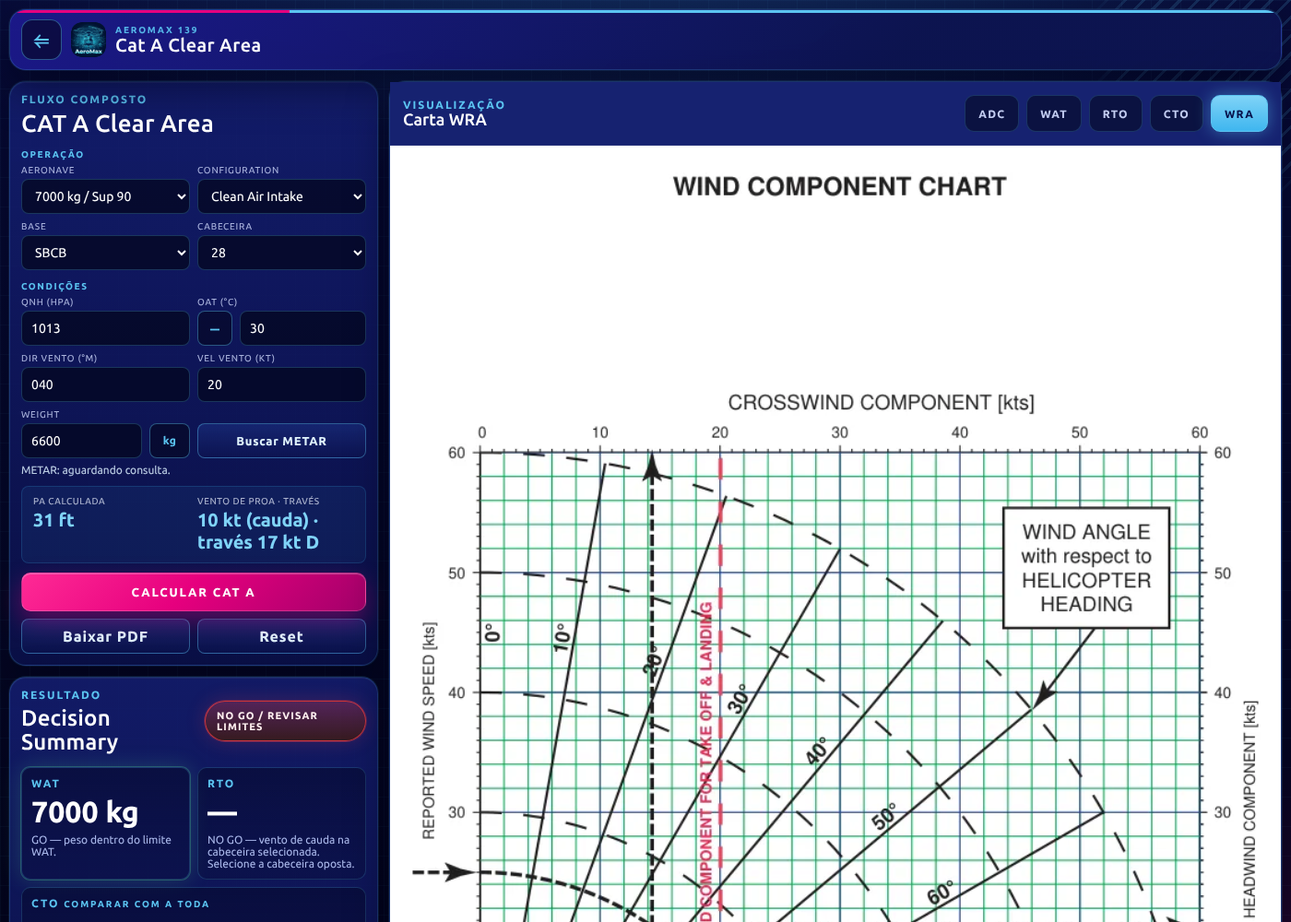
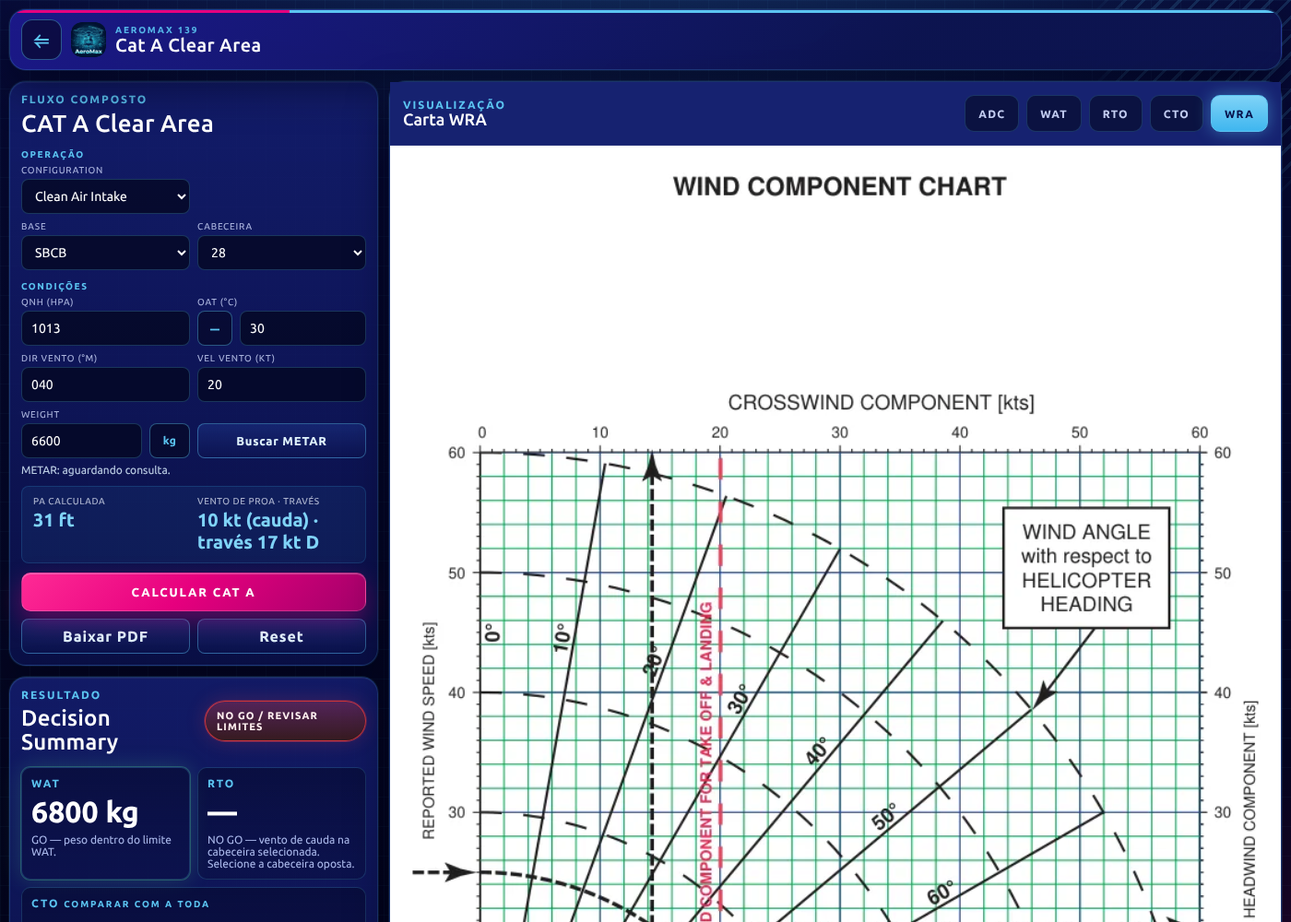
Libera aba WRA e Clear Area sem seleção de aeronave (conferidos)
Claude-Session: https://claude.ai/code/session_01WHHE1jrDq3VhKDq5ePKYXf

Changed region(s): [[0.1536, 0.186, 0.3071, 0.248], [0.0307, 0.186, 0.0921, 0.217], [0.0, 0.868, 0.0614, 0.899]]

diff --git a/sw.js b/sw.js
@@ -1,4 +1,4 @@
-const CACHE_NAME = 'aw139-root-3dde66dae0';
+const CACHE_NAME = 'aw139-root-f7b3d4140e';
 const PRECACHE = [
   "./shared/offline-status.js",
   "./dropdown/assets/dropdown-enhanced-7000.png",
@@ -496,7 +496,7 @@ const PRECACHE = [
   "./wat/test_overlay_case.png"
 ];
 // Gerado por tools/sw-hashes.py.
-const HASHES = {"./shared/offline-status.js":"e0dcf273cc","./dropdown/assets/dropdown-enhanced-7000.png":"453f2c2272","./dropdown/assets/dropdown-offshore-6400.png":"9917f039a5","./dropdown/assets/dropdown-offshore-6800.png":"47849e37a6","./adc/":"d8949fb248","./cata/":"c4fa26e9bc","./decolagem-offshore/":"a4b2f012a3","./dropdown/":"a4616c0320","./pouso-offshore/":"e884e1c3ba","./rto/":"bb0a239415","./wat/":"f4e5ad2e9b","./dropdown/index.html":"a4616c0320","./dropdown/app.js":"6a62ecc107","./dropdown/styles.css":"96d0905f64","./dropdown/ddv7-fullscreen-fix.js":"17641e73b5","./dropdown/ddv7-patch.js":"7dcde30659","./dropdown/final-ui.js":"7bfd4866d9","./assets/ubuntu.css":"bdff0152fa","./assets/fonts/ubuntu-400-latin-ext.woff2":"530aea4a33","./assets/fonts/ubuntu-400-latin.woff2":"4a8b9af22b","./assets/fonts/ubuntu-500-latin-ext.woff2":"882901bfb9","./assets/fonts/ubuntu-500-latin.woff2":"c6bd3f0bf0","./assets/fonts/ubuntu-500i-latin-ext.woff2":"62817d2060","./assets/fonts/ubuntu-500i-latin.woff2":"6f40fb42fb","./assets/fonts/ubuntu-700-latin-ext.woff2":"49dea29c68","./assets/fonts/ubuntu-700-latin.woff2":"9418887ae6","./":"a28ecfca81","./README.md":"3f8d17d0a6","./adc/app.js":"056d49ad6a","./adc/app.js.bak":"b6d408316d","./adc/base_pack_template_v3.json":"a64cff8968","./adc/base_pack_template_v4.json":"88092aa5d5","./adc/base_pack_template_v5.json":"ef6736957d","./adc/index.html":"d8949fb248","./adc/theme.css":"b488eb0ea0","./adc/sbcb_builtin_pack_v3.json":"daf053efe1","./adc/sbcb_builtin_pack_v4.json":"daf053efe1","./adc/sbcb_builtin_pack_v5.json":"daf053efe1","./adc/sbcb_chart_p1.png":"6247bdafc8","./adc/sbcb_chart_p2.png":"2a64afde63","./adc/sbfs_builtin_pack_v3.json":"6dfd7a78ec","./adc/sbfs_builtin_pack_v4.json":"6dfd7a78ec","./adc/sbfs_builtin_pack_v5.json":"6dfd7a78ec","./adc/sbfs_chart_p1.png":"11d16c614e","./adc/sbfs_chart_p2.png":"31980d1526","./adc/sbgl_builtin_pack_v3.json":"fa216d8e96","./adc/sbgl_builtin_pack_v4.json":"fa216d8e96","./adc/sbgl_builtin_pack_v5.json":"fa216d8e96","./adc/sbgl_chart_p1.png":"6278b0ab47","./adc/sbgl_chart_p2.png":"924152f28a","./adc/sbjr_builtin_pack_v3.json":"fa84f43a97","./adc/sbjr_builtin_pack_v4.json":"fa84f43a97","./adc/sbjr_builtin_pack_v5.json":"fa84f43a97","./adc/sbjr_chart_p1.png":"1d6d725659","./adc/sbjr_chart_p2.png":"2222bf471b","./adc/sbme_builtin_pack_v3.json":"737081b15b","./adc/sbme_builtin_pack_v4.json":"737081b15b","./adc/sbme_builtin_pack_v5.json":"737081b15b","./adc/sbme_chart_p1.png":"81bb110530","./adc/sbme_chart_p2.png":"a598ab6513","./adc/sbmi_builtin_pack_v3.json":"4e425738ec","./adc/sbmi_builtin_pack_v4.json":"4e425738ec","./adc/sbmi_builtin_pack_v5.json":"4e425738ec","./adc/sbmi_chart_p1.png":"33352141e0","./adc/sbmi_chart_p2.png":"33057d9afd","./adc/sbnf_builtin_pack_v3.json":"5960e76e05","./adc/sbnf_builtin_pack_v4.json":"ea4527169e","./adc/sbnf_builtin_pack_v5.json":"ea4527169e","./adc/sbnf_chart_p1.png":"80cc554335","./adc/sbnf_chart_p2.png":"2bd4d9cf6d","./adc/sbrj_builtin_pack_v3.json":"0b93adf0d4","./adc/sbrj_builtin_pack_v4.json":"0b93adf0d4","./adc/sbrj_builtin_pack_v5.json":"0b93adf0d4","./adc/sbrj_chart_p1.png":"a4e7c7b3e3","./adc/sbrj_chart_p2.png":"6a9f372fe4","./adc/sbvt_builtin_pack_v3.json":"479e1d3842","./adc/sbvt_builtin_pack_v4.json":"479e1d3842","./adc/sbvt_builtin_pack_v5.json":"479e1d3842","./adc/sbvt_chart_p1.png":"2950b9c273","./adc/sbvt_chart_p2.png":"5672869544","./assets/icon-180.png":"a08fe77aab","./assets/icon-192.png":"7e0a669ec6","./assets/icon-32.png":"7fecc67745","./assets/icon-512.png":"b3b8909213","./assets/icon-maskable-192.png":"c5974b3ba9","./assets/icon-maskable-512.png":"eca61e4329","./assets/icon-source.png":"b3b8909213","./assets/icon.svg":"ceeaf9c37c","./assets/icons.svg":"f1eba4ae07","./cata/app.js":"0954221f2e","./cata/cl-data.js":"60f1cd835d","./cata/cl-engine.js":"79d4e6cd8d","./cata/charts/4J-2_1.webp":"91e9d6b2ef","./cata/charts/4J-2_2.webp":"af0050beea","./cata/charts/4J-1.webp":"81ffbc09b2","./cata/charts/4-60.webp":"8e639b22f6","./cata/charts/4-61.webp":"0d9909b16c","./cata/charts/4-62.webp":"03f99789bb","./cata/charts/4-100.webp":"15f43f08f4","./cata/charts/4-101.webp":"5770e39bb1","./cata/charts/4-102.webp":"d991139c76","./cata/index.html":"c4fa26e9bc","./cata/styles.css":"e6b19627b3","./index.html":"a28ecfca81","./manifest.webmanifest":"66163ef78e","./offline.html":"a403229157","./pouso-offshore/index.html":"e884e1c3ba","./pouso-offshore/app.js":"543dbc192f","./pouso-offshore/styles.css":"8584bd0c0d","./pouso-offshore/obl-data.js":"9b29e5c876","./pouso-offshore/obl-engine.js":"35bbb6064a","./shared/clear/clw-data.js":"3dd22cee87","./shared/clear/clr-data.js":"fdb0c37a15","./shared/clear/clr-engine.js":"e238753c4c","./shared/clear/charts/4-1.webp":"4e4f64e227","./shared/clear/charts/4-2.webp":"6728ea2968","./shared/clear/charts/4-3.webp":"9e1c1db93f","./shared/clear/charts/4-54.webp":"08e570fc02","./shared/clear/charts/4-56.webp":"f005023ebc","./shared/clear/charts/4-58.webp":"3eb4682e05","./shared/clear/charts/4-68A.webp":"0c51c3ff90","./shared/clear/charts/4-9A.webp":"022452f809","./shared/clear/charts/S90-4-5.webp":"bd402a4d73","./shared/clear/charts/S90-4-6.webp":"1dfdfee5aa","./shared/clear/charts/S90-4-7.webp":"8652a9a081","./shared/clear/charts/S90-4-8.webp":"70ca7e31a0","./shared/clear/charts/S90-4-92.webp":"f40aadd282","./shared/clear/charts/S90-4-94.webp":"0fd78aa86b","./shared/clear/charts/S90-4-96.webp":"cec243d679","./shared/clear/charts/S90-4-98.webp":"cb80283e54","./shared/clear/charts/4-55.webp":"37382b9401","./shared/clear/charts/4-57.webp":"39ec7847a5","./shared/clear/charts/4-59.webp":"6dca0db4c5","./shared/clear/charts/4-68B.webp":"8cc91d42dc","./shared/clear/charts/4F-1.webp":"3fc3ee7279","./shared/clear/charts/4F-2.webp":"74ee8f04e6","./shared/clear/charts/4F-3.webp":"7c483fcf31","./shared/clear/charts/4F-3A.webp":"eaa2d9b4b1","./shared/clear/charts/4F-4.webp":"ac3ed3a0ac","./shared/clear/charts/4F-5.webp":"6d7c24d322","./shared/clear/charts/4F-6.webp":"70cf543aea","./shared/clear/charts/4F-6A.webp":"6d31a41233","./shared/clear/charts/4F-7.webp":"01b35d2f6a","./shared/clear/charts/4F-8.webp":"8d6f567b03","./shared/clear/charts/4F-9.webp":"f99b8d92f1","./shared/clear/charts/4F-9A.webp":"7edf66f2ce","./shared/clear/charts/S90-4-93.webp":"0a5802c1e3","./shared/clear/charts/S90-4-95.webp":"9918ace947","./shared/clear/charts/S90-4-97.webp":"d13250fbd4","./shared/clear/charts/S90-4-99.webp":"ddc991098c","./shared/offshore/ew-data.js":"c073ea4bfd","./shared/offshore/edd-data.js":"bce9665f1c","./shared/offshore/ew-engine.js":"d1d31fa346","./shared/offshore/charts/S97-4-1.webp":"f0a11eee80","./shared/offshore/charts/S97-4-3.webp":"3d8f3a7af9","./shared/offshore/charts/S97-4-5.webp":"e46465cb9b","./shared/offshore/charts/S97-4-7.webp":"ad4120d99d","./shared/offshore/charts/S97-4-10.webp":"5f7f5ec68b","./shared/wra.js":"b92d11c748","./shared/wind/wind-data.js":"7ec70cbb42","./shared/wind/charts/4K-4.webp":"074b02c475","./shared/wind/charts/S97-4-13.webp":"65c29c6ce8","./shared/wind/charts/S97-1-2.webp":"f733b83aee","./shared/offshore/ofw-data.js":"376df3628f","./shared/offshore/ofd-data.js":"b230c27368","./shared/offshore/ofs-engine.js":"3f081613b6","./shared/offshore/ofs-view.js":"9a312567a1","./shared/offshore/charts/4-7.webp":"ba6576acdc","./shared/offshore/charts/4-8.webp":"17051a1724","./shared/offshore/charts/4-9.webp":"5c7d525308","./shared/offshore/charts/4-9C.webp":"9abb07bb44","./shared/offshore/charts/4E-7.webp":"3da80170ed","./shared/offshore/charts/4I-1.webp":"3b96f0ca34","./shared/offshore/charts/4-74.webp":"1b7065b366","./pouso-offshore/charts/4I-2.webp":"5de288717a","./pouso-offshore/charts/4I-4.webp":"f85b1ac58e","./pouso-offshore/charts/4I-6.webp":"5880067122","./pouso-offshore/charts/4I-8.webp":"36e4ae2e03","./pouso-offshore/charts/4-75.webp":"63c65543cc","./pouso-offshore/charts/4-77.webp":"5d2ec48263","./pouso-offshore/charts/4-79.webp":"514ed66713","./pouso-offshore/charts/4-100.webp":"c387276699","./decolagem-offshore/index.html":"a4b2f012a3","./decolagem-offshore/app.js":"27040ed425","./decolagem-offshore/styles.css":"106ae9e216","./rto/README.md":"3bebf9425d","./rto/app.js":"6409423fc0","./rto/assets/icon-180.png":"a08fe77aab","./rto/assets/icon-192.png":"7e0a669ec6","./rto/assets/icon-32.png":"7fecc67745","./rto/assets/icon-512.png":"b3b8909213","./rto/assets/icon-maskable-192.png":"c5974b3ba9","./rto/assets/icon-maskable-512.png":"eca61e4329","./rto/assets/icon-source.png":"b3b8909213","./rto/assets/icon.svg":"ceeaf9c37c","./rto/data/figure_4_54_engine_data.json":"add62c26d8","./rto/data/figure_4_54_vector_geometry.json":"58fceee453","./rto/data/figure_4_54_vector_linework.json":"7ae4a188e9","./rto/data/figure_4_56_engine_data.json":"eadc8c1e6d","./rto/data/figure_4_58_engine_data.json":"dc11f5e367","./rto/data/figure_4_68a_engine_data.json":"0a9d3ffcda","./rto/data/figure_4_92_engine_data.json":"808e8064cc","./rto/data/figure_4_94_engine_data.json":"51c587d2d4","./rto/data/figure_4_94_reference.json":"b8b0edc125","./rto/data/figure_4_96_engine_data.json":"cb88e07b3c","./rto/data/figure_4_96_reference.json":"2b3782ffa9","./rto/data/figure_4_98_engine_data.json":"08b53de4d6","./rto/data/figure_4_98_reference.json":"b40a85e800","./rto/docs/figure_4_58_center_right_corrected_reference_v17.png":"e3333beb9c","./rto/docs/figure_4_58_left_semantic_corrected_v15.png":"85aa2c303c","./rto/docs/figure_4_94_combined_fresh_v46.png":"8a06926007","./rto/docs/figure_4_94_semantic_fresh_v46.png":"c7f1981a48","./rto/docs/figure_4_94_vector_only_fresh_v46.png":"eca150637c","./rto/docs/figure_4_96_combined_fresh_v54.png":"9b8b8e0725","./rto/docs/figure_4_96_semantic_audit_sheet_v56.png":"8beb7972b9","./rto/docs/figure_4_96_semantic_fresh_v54.png":"df93a910fa","./rto/docs/figure_4_96_vector_precise_v55.png":"4b6fdd7e0c","./rto/docs/figure_4_98_center_semantic_audit_v62.png":"b4d06efa89","./rto/docs/figure_4_98_left_semantic_audit_v62.png":"b528131f9d","./rto/docs/figure_4_98_right_semantic_audit_v62.png":"be6294f676","./rto/docs/figure_4_98_semantic_audit_sheet_v62.png":"b7f6be6ee9","./rto/docs/figure_4_98_vector_exact_v62.png":"5a54209df2","./rto/docs/page_s50_108a_figure_4_68a.png":"eb6be6e6d2","./rto/docs/page_s50_85_figure_4_54.png":"74e04fe83d","./rto/docs/page_s50_89_figure_4_56.png":"659b6ce11f","./rto/docs/page_s50_93_figure_4_58.png":"ac27c6a796","./rto/docs/page_s90_123_figure_4_92.png":"605888a376","./rto/docs/page_s90_127_figure_4_94.png":"00fb96dbf2","./rto/docs/page_s90_131_figure_4_96.png":"01d0750ab4","./rto/docs/page_s90_135_figure_4_98.png":"bff0d026d7","./rto/index.html":"bb0a239415","./rto/manifest.webmanifest":"b7c9e25d7a","./rto/styles.css":"838139d262","./dropdown/graphData.js":"5ec80fc198","./shared/home.js":"3a221a12ca","./shared/module-bridge.js":"218cc0b67e","./shared/module-layout.css":"9bdd7bcfaf","./shared/omni-theme.css":"2f2f02b44f","./shared/embedded-app.js":"8dbbe242b5","./shared/embedded-app.css":"b7354115e5","./shared/embedded-skin.css":"109015fdc0","./shared/landing-oei.js":"2e86fe6cc6","./cat-a/":"3117a89858","./cat-a/index.html":"3117a89858","./backup/":"3166e8a040","./backup/index.html":"3166e8a040","./backup/bu-data.js":"97769ab131","./backup/bu-engine.js":"639f6cd6c7","./backup/bu-ui.js":"c3e96d34ff","./backup/charts/4C-3.webp":"a169d568b9","./backup/charts/4C-4.webp":"d5db3f4099","./backup/charts/4C-5.webp":"25b7ec50a9","./backup/charts/4C-5A.webp":"6e5a490945","./backup/charts/4C-6.webp":"c9c57c74af","./confined/":"159a48d48f","./confined/index.html":"159a48d48f","./confined/ca-data.js":"513c1577e6","./confined/ca-alt-data.js":"85b843ffb9","./confined/ca-after.js":"0c82897651","./confined/charts/4D-10.webp":"14259d24dc","./confined/charts/4D-11.webp":"1ce6c027c7","./confined/charts/4D-12.webp":"01c3476bfd","./confined/charts/4D-13.webp":"491d7cfb69","./confined/charts/4D-14.webp":"f3a0eb9068","./confined/charts/4D-15.webp":"1ca4996463","./confined/charts/4D-16.webp":"e10fbe1b95","./confined/charts/4D-17.webp":"14ad59078d","./confined/charts/4D-18.webp":"84eb91b10c","./confined/charts/4D-19.webp":"64e85e3e06","./confined/charts/4D-20.webp":"fc02cbe14d","./confined/charts/4D-21.webp":"a26eb85784","./confined/charts/4D-22.webp":"ceca16ccd7","./confined/charts/4D-23.webp":"302804e4a2","./confined/charts/4D-24.webp":"1f74fe877c","./confined/charts/4D-25.webp":"e8b8c02001","./confined/charts/4D-26.webp":"5c6b52939c","./confined/charts/4D-27.webp":"309da5b7f1","./confined/charts/4D-28.webp":"c20f7d1ebb","./confined/charts/4D-29.webp":"fdb5d9065f","./confined/charts/4D-30.webp":"6258a01407","./confined/charts/4D-31.webp":"9d4b65bf76","./confined/charts/4D-32.webp":"e1da117372","./confined/charts/4D-33.webp":"ce90a5e7eb","./confined/ca-engine.js":"5de4527045","./confined/charts/4D-4.webp":"c4c3228276","./confined/charts/4D-5.webp":"6c9e15fa66","./confined/charts/4D-6.webp":"7b8cdc6a6a","./confined/charts/4D-6A.webp":"88fe0088de","./confined/charts/4D-9.webp":"91aebd8472","./vertical/":"d471b6b641","./vertical/index.html":"d471b6b641","./vertical/vt-data.js":"9b24b69a9f","./vertical/vt-engine.js":"14a21a9ac1","./vertical/vt-ui.js":"996ac17e52","./vertical/charts/4A-3.webp":"65c41496fc","./vertical/charts/4A-4.webp":"6377cd735a","./vertical/charts/4A-5.webp":"06123f26bd","./vertical/charts/4A-5A.webp":"9ec5b1dfe6","./vertical/charts/4A-6.webp":"e3d9415027","./vertical/vt-p1.js":"1bb0b313c7","./vertical/vt-p2.js":"d0fcdb0430","./pouso-confined/":"1055da1e4a","./pouso-heliport/":"0e596d5f11","./pouso-heliport/index.html":"0e596d5f11","./pouso-heliport/hb-data.js":"6eaefee0bf","./pouso-heliport/hb-engine.js":"071ccaaa0f","./pouso-heliport/hb-ui.js":"f2dd8863c2","./pouso-heliport/charts/4G-2.webp":"5a8f1f9efc","./pouso-confined/index.html":"1055da1e4a","./pouso-confined/cl-data.js":"9d04f2fcbd","./pouso-confined/pc-engine.js":"0178a3d411","./pouso-confined/pc-ui.js":"384648b8ed","./pouso-confined/charts/4H-4.webp":"84e34deae7","./vertical/charts/4K-5.webp":"c800090af3","./vertical/charts/4K-6.webp":"feb0d2ce0b","./vertical/charts/4K-7.webp":"53925da32c","./vertical/charts/4K-8.webp":"6a61131144","./vertical/charts/4K-9.webp":"b8fd49aa9b","./vertical/charts/4K-10.webp":"336e6bc787","./vertical/charts/4K-11.webp":"395ba20c34","./vertical/charts/4K-12.webp":"685a96c2cc","./vertical/charts/4K-13.webp":"4cb337975d","./vertical/charts/4K-14.webp":"a2b0b9f59e","./vertical/charts/4K-15.webp":"f4e80838b8","./vertical/charts/4K-16.webp":"3db84164d9","./vertical/charts/4K-17.webp":"55811049fe","./vertical/charts/4K-18.webp":"29da24b680","./vertical/charts/4K-19.webp":"21c15545e9","./vertical/charts/4K-20.webp":"c9728e025f","./vertical/charts/4K-21.webp":"f1e3b6b182","./vertical/charts/4K-22.webp":"492a570bbc","./vertical/charts/4K-23.webp":"c0aeb6b3da","./vertical/charts/4K-24.webp":"b5ee3e1307","./vertical/charts/4K-25.webp":"4fcfff391f","./vertical/charts/4K-26.webp":"c980d2d2e4","./vertical/charts/4K-27.webp":"e70cb3ddfc","./vertical/charts/4K-28.webp":"65c5a4ecf1","./vertical/charts/4A-8.webp":"2c93987671","./vertical/charts/4A-9.webp":"d23e87bb2a","./vertical/charts/4A-10.webp":"5b434fa23a","./vertical/charts/4A-11.webp":"7cde6f2522","./vertical/charts/4A-12.webp":"4e40b0a191","./vertical/charts/4A-13.webp":"f3ce2fd712","./vertical/charts/4A-14.webp":"34148b0716","./vertical/charts/4A-15.webp":"62c26a199c","./vertical/charts/4A-16.webp":"bcba86b269","./vertical/charts/4A-17.webp":"90af0238f4","./vertical/charts/4A-18.webp":"2fcb766978","./vertical/charts/4A-19.webp":"d7ad0a50dd","./vertical/charts/4A-20.webp":"a1ed5ee2a6","./vertical/charts/4A-21.webp":"ff7b328ce1","./vertical/charts/4A-22.webp":"3aa31c76ec","./vertical/charts/4A-23.webp":"2a0efe59db","./vertical/charts/4A-24.webp":"cd74ae5cb2","./vertical/charts/4A-25.webp":"21feeb455a","./vertical/charts/4A-26.webp":"7cd3fc4185","./vertical/charts/4A-27.webp":"0c0360a128","./vertical/charts/4A-28.webp":"a8fe86e4d5","./vertical/charts/4A-29.webp":"8adae6c45b","./vertical/charts/4A-30.webp":"3c474ea9e7","./vertical/charts/4A-31.webp":"35a4f85ae8","./shortfield/":"5baa948d12","./shortfield/index.html":"5baa948d12","./shortfield/sf.css":"04459c691f","./shortfield/sf-data.js":"fb066962fa","./shortfield/sf-engine.js":"69eee41183","./shortfield/sf-ui.js":"099d398784","./shortfield/charts/4B-1.webp":"a532c92445","./shortfield/charts/4B-2.webp":"c567c6b8ea","./shortfield/charts/4B-3.webp":"d7107f03ea","./shortfield/charts/4B-3A.webp":"ae083fb31d","./shortfield/charts/4B-4.webp":"ddfe2ed6d3","./shortfield/charts/4B-5.webp":"4cb2abead9","./shortfield/charts/4B-6.webp":"682c84713b","./shortfield/charts/4B-6A.webp":"3d9411c514","./shortfield/charts/4B-7.webp":"800bc474ce","./shared/tiles.css":"8c4bd57a5e","./catb/":"88fd185536","./catb/index.html":"88fd185536","./catb/cb-data.js":"184818f7a2","./catb/cb-engine.js":"41a38659d6","./catb/cb-ui.js":"64e4ade123","./catb/charts/4-17.webp":"f0b623d4f1","./catb/charts/4-18.webp":"9e26786a3c","./catb/charts/4-35.webp":"e542d67870","./catb/charts/4-36.webp":"15fd59fcb4","./catb/charts/4-42.webp":"7e1a317645","./catb/charts/4-43.webp":"71d6d8fab5","./power-check/":"d7ccb4cba1","./power-check/index.html":"d7ccb4cba1","./power-check/app-data.js":"fcbd847f38","./power-check/pwc-data.js":"42cf0aa2de","./power-check/pwc-engine.js":"9e27e482ed","./power-check/charts/NONE.webp":"3231d6a406","./power-check/charts/EAPS.webp":"c7a081c8de","./power-check/charts/IBF.webp":"f48455ee53","./ndl/":"ef0ac8ba6c","./ndl/index.html":"ef0ac8ba6c","./ndl/app-data.js":"717d2dc5fd","./roc/":"df1347dbab","./roc/index.html":"df1347dbab","./roc/app-data.js":"9c9b431fca","./consumo/":"18e311c77c","./consumo/index.html":"18e311c77c","./consumo/app-data.js":"2d5ef998f6","./teto-pairado/":"d44c620d2b","./teto-pairado/index.html":"d44c620d2b","./teto-pairado/app-data.js":"caa6028e0b","./teto-pairado/hl-data.js":"a07a77d29f","./teto-pairado/hl-engine.js":"db9c774340","./teto-pairado/hl-ui.js":"70a7069cd5","./teto-pairado/charts/4-43.webp":"ea64bf3937","./teto-pairado/charts/S50-4-37.webp":"8504726fb9","./limitacoes/":"19e32631bf","./limitacoes/index.html":"19e32631bf","./limitacoes/app-data.js":"eee931d32f","./shared/offshore-calc.js":"d1f822971c","./shared/pwa.css":"0b2b41c17f","./shared/pwa.js":"18d5fe2a9a","./styles.css":"d6df5af781","./wat/README.md":"06da1901f0","./wat/app.js":"1405ffb022","./wat/assets/icon-180.png":"a08fe77aab","./wat/assets/icon-192.png":"7e0a669ec6","./wat/assets/icon-32.png":"7fecc67745","./wat/assets/icon-512.png":"b3b8909213","./wat/assets/icon-maskable-192.png":"c5974b3ba9","./wat/assets/icon-maskable-512.png":"eca61e4329","./wat/assets/icon-source.png":"b3b8909213","./wat/assets/icon.svg":"ceeaf9c37c","./wat/assets/offshore_standard_chart_clip.png":"78214165ed","./wat/data/chart-schema.json":"e84976cdb5","./wat/data/clear-eapsoff-exact.json":"4443b57283","./wat/data/clear-eapson-exact.json":"102cbc91be","./wat/data/clear-standard-exact.json":"8146090402","./wat/data/confined-eapsoff-6400-exact.json":"6ed2281668","./wat/data/confined-eapsoff-exact.json":"75a2719e94","./wat/data/confined-eapson-6400-exact.json":"3e4342c78f","./wat/data/confined-eapson-exact.json":"4ca834c44c","./wat/data/confined-ibf-6400-exact.json":"489ba48cfa","./wat/data/confined-standard-6400-exact.json":"5d0899d9a7","./wat/data/confined-standard-exact.json":"ad0c801588","./wat/data/eaps-off-exact.json":"e08569afca","./wat/data/ibf-cleararea-exact.json":"2b506321d5","./wat/data/ibf-confined-exact.json":"4fd78b4006","./wat/data/ibf-installed-exact.json":"d87f7ef440","./wat/data/sup90-clear-eapsoff-exact.json":"1ad9d32f9b","./wat/data/sup90-clear-eapson-exact.json":"b5732d4a66","./wat/data/sup90-clear-ibf-exact.json":"19eb4567b4","./wat/data/sup90-clear-standard-exact.json":"39d3f1b925","./wat/data/sup90-cleararea-stageA.json":"70d5f4e5bf","./wat/data/sup90-cleararea-stageB.json":"0af48578e9","./wat/docs/Confined 6400 charts.pdf":"64e0911dda","./wat/docs/WAC charts 6800.pdf":"863c46943c","./wat/docs/WAT enhanced.pdf":"3365c19d09","./wat/docs/page-01.png":"98dcb1e36e","./wat/docs/page-02.png":"cf2b60e02b","./wat/docs/page-03.png":"779a3cbb79","./wat/docs/page-04.png":"9c69ec6824","./wat/docs/page-05.png":"338269411c","./wat/docs/page-06.png":"b7c46ebafd","./wat/docs/page-07.png":"93b1aedb74","./wat/docs/page-08.png":"dc09690af9","./wat/docs/page-09.png":"2d444748a5","./wat/docs/page-10.png":"d0da82e194","./wat/docs/page-11.png":"b2bd181248","./wat/docs/page-12.png":"83bd327295","./wat/docs/page-13.png":"37c301bd9f","./wat/docs/page-14.png":"3910cc7596","./wat/docs/page-15.png":"e73c0f87a3","./wat/docs/page-16.png":"115f8033ee","./wat/docs/page-17.png":"f350827d1f","./wat/docs/page-18.png":"1980ca6cad","./wat/docs/page-19.png":"14677f00da","./wat/docs/page-20.png":"98fe336fb1","./wat/docs/page-21.png":"e8ad896654","./wat/docs/page-22.png":"77b108f6ee","./wat/docs/page-23.png":"96ee258424","./wat/docs/page-24.png":"a2e1afa641","./wat/docs/page-25.png":"8ca695e708","./wat/docs/page-26.png":"16291f06d5","./wat/docs/page-27.png":"f6ca30c83b","./wat/docs/page-28.png":"834d710b44","./wat/docs/page-29.png":"8441208079","./wat/docs/page-30.png":"329425d392","./wat/docs/page-31.png":"3fbdf34873","./wat/docs/page-32.png":"0da936d818","./wat/docs/page-33.png":"69e8f596d2","./wat/docs/wat7000.pdf":"7b4d5b7a7f","./wat/index.html":"f4e5ad2e9b","./wat/manifest.webmanifest":"a4ffcf1781","./wat/styles.css":"67172edf8b","./wat/test_overlay_case.png":"c9176ae09a"};
+const HASHES = {"./shared/offline-status.js":"e0dcf273cc","./dropdown/assets/dropdown-enhanced-7000.png":"453f2c2272","./dropdown/assets/dropdown-offshore-6400.png":"9917f039a5","./dropdown/assets/dropdown-offshore-6800.png":"47849e37a6","./adc/":"d8949fb248","./cata/":"f106c95503","./decolagem-offshore/":"a4b2f012a3","./dropdown/":"a4616c0320","./pouso-offshore/":"e884e1c3ba","./rto/":"bb0a239415","./wat/":"f4e5ad2e9b","./dropdown/index.html":"a4616c0320","./dropdown/app.js":"6a62ecc107","./dropdown/styles.css":"96d0905f64","./dropdown/ddv7-fullscreen-fix.js":"17641e73b5","./dropdown/ddv7-patch.js":"7dcde30659","./dropdown/final-ui.js":"7bfd4866d9","./assets/ubuntu.css":"bdff0152fa","./assets/fonts/ubuntu-400-latin-ext.woff2":"530aea4a33","./assets/fonts/ubuntu-400-latin.woff2":"4a8b9af22b","./assets/fonts/ubuntu-500-latin-ext.woff2":"882901bfb9","./assets/fonts/ubuntu-500-latin.woff2":"c6bd3f0bf0","./assets/fonts/ubuntu-500i-latin-ext.woff2":"62817d2060","./assets/fonts/ubuntu-500i-latin.woff2":"6f40fb42fb","./assets/fonts/ubuntu-700-latin-ext.woff2":"49dea29c68","./assets/fonts/ubuntu-700-latin.woff2":"9418887ae6","./":"a28ecfca81","./README.md":"3f8d17d0a6","./adc/app.js":"056d49ad6a","./adc/app.js.bak":"b6d408316d","./adc/base_pack_template_v3.json":"a64cff8968","./adc/base_pack_template_v4.json":"88092aa5d5","./adc/base_pack_template_v5.json":"ef6736957d","./adc/index.html":"d8949fb248","./adc/theme.css":"b488eb0ea0","./adc/sbcb_builtin_pack_v3.json":"daf053efe1","./adc/sbcb_builtin_pack_v4.json":"daf053efe1","./adc/sbcb_builtin_pack_v5.json":"daf053efe1","./adc/sbcb_chart_p1.png":"6247bdafc8","./adc/sbcb_chart_p2.png":"2a64afde63","./adc/sbfs_builtin_pack_v3.json":"6dfd7a78ec","./adc/sbfs_builtin_pack_v4.json":"6dfd7a78ec","./adc/sbfs_builtin_pack_v5.json":"6dfd7a78ec","./adc/sbfs_chart_p1.png":"11d16c614e","./adc/sbfs_chart_p2.png":"31980d1526","./adc/sbgl_builtin_pack_v3.json":"fa216d8e96","./adc/sbgl_builtin_pack_v4.json":"fa216d8e96","./adc/sbgl_builtin_pack_v5.json":"fa216d8e96","./adc/sbgl_chart_p1.png":"6278b0ab47","./adc/sbgl_chart_p2.png":"924152f28a","./adc/sbjr_builtin_pack_v3.json":"fa84f43a97","./adc/sbjr_builtin_pack_v4.json":"fa84f43a97","./adc/sbjr_builtin_pack_v5.json":"fa84f43a97","./adc/sbjr_chart_p1.png":"1d6d725659","./adc/sbjr_chart_p2.png":"2222bf471b","./adc/sbme_builtin_pack_v3.json":"737081b15b","./adc/sbme_builtin_pack_v4.json":"737081b15b","./adc/sbme_builtin_pack_v5.json":"737081b15b","./adc/sbme_chart_p1.png":"81bb110530","./adc/sbme_chart_p2.png":"a598ab6513","./adc/sbmi_builtin_pack_v3.json":"4e425738ec","./adc/sbmi_builtin_pack_v4.json":"4e425738ec","./adc/sbmi_builtin_pack_v5.json":"4e425738ec","./adc/sbmi_chart_p1.png":"33352141e0","./adc/sbmi_chart_p2.png":"33057d9afd","./adc/sbnf_builtin_pack_v3.json":"5960e76e05","./adc/sbnf_builtin_pack_v4.json":"ea4527169e","./adc/sbnf_builtin_pack_v5.json":"ea4527169e","./adc/sbnf_chart_p1.png":"80cc554335","./adc/sbnf_chart_p2.png":"2bd4d9cf6d","./adc/sbrj_builtin_pack_v3.json":"0b93adf0d4","./adc/sbrj_builtin_pack_v4.json":"0b93adf0d4","./adc/sbrj_builtin_pack_v5.json":"0b93adf0d4","./adc/sbrj_chart_p1.png":"a4e7c7b3e3","./adc/sbrj_chart_p2.png":"6a9f372fe4","./adc/sbvt_builtin_pack_v3.json":"479e1d3842","./adc/sbvt_builtin_pack_v4.json":"479e1d3842","./adc/sbvt_builtin_pack_v5.json":"479e1d3842","./adc/sbvt_chart_p1.png":"2950b9c273","./adc/sbvt_chart_p2.png":"5672869544","./assets/icon-180.png":"a08fe77aab","./assets/icon-192.png":"7e0a669ec6","./assets/icon-32.png":"7fecc67745","./assets/icon-512.png":"b3b8909213","./assets/icon-maskable-192.png":"c5974b3ba9","./assets/icon-maskable-512.png":"eca61e4329","./assets/icon-source.png":"b3b8909213","./assets/icon.svg":"ceeaf9c37c","./assets/icons.svg":"f1eba4ae07","./cata/app.js":"899e1e76fc","./cata/cl-data.js":"60f1cd835d","./cata/cl-engine.js":"79d4e6cd8d","./cata/charts/4J-2_1.webp":"91e9d6b2ef","./cata/charts/4J-2_2.webp":"af0050beea","./cata/charts/4J-1.webp":"81ffbc09b2","./cata/charts/4-60.webp":"8e639b22f6","./cata/charts/4-61.webp":"0d9909b16c","./cata/charts/4-62.webp":"03f99789bb","./cata/charts/4-100.webp":"15f43f08f4","./cata/charts/4-101.webp":"5770e39bb1","./cata/charts/4-102.webp":"d991139c76","./cata/index.html":"f106c95503","./cata/styles.css":"e6b19627b3","./index.html":"a28ecfca81","./manifest.webmanifest":"66163ef78e","./offline.html":"a403229157","./pouso-offshore/index.html":"e884e1c3ba","./pouso-offshore/app.js":"543dbc192f","./pouso-offshore/styles.css":"8584bd0c0d","./pouso-offshore/obl-data.js":"9b29e5c876","./pouso-offshore/obl-engine.js":"35bbb6064a","./shared/clear/clw-data.js":"3dd22cee87","./shared/clear/clr-data.js":"fdb0c37a15","./shared/clear/clr-engine.js":"e238753c4c","./shared/clear/charts/4-1.webp":"4e4f64e227","./shared/clear/charts/4-2.webp":"6728ea2968","./shared/clear/charts/4-3.webp":"9e1c1db93f","./shared/clear/charts/4-54.webp":"08e570fc02","./shared/clear/charts/4-56.webp":"f005023ebc","./shared/clear/charts/4-58.webp":"3eb4682e05","./shared/clear/charts/4-68A.webp":"0c51c3ff90","./shared/clear/charts/4-9A.webp":"022452f809","./shared/clear/charts/S90-4-5.webp":"bd402a4d73","./shared/clear/charts/S90-4-6.webp":"1dfdfee5aa","./shared/clear/charts/S90-4-7.webp":"8652a9a081","./shared/clear/charts/S90-4-8.webp":"70ca7e31a0","./shared/clear/charts/S90-4-92.webp":"f40aadd282","./shared/clear/charts/S90-4-94.webp":"0fd78aa86b","./shared/clear/charts/S90-4-96.webp":"cec243d679","./shared/clear/charts/S90-4-98.webp":"cb80283e54","./shared/clear/charts/4-55.webp":"37382b9401","./shared/clear/charts/4-57.webp":"39ec7847a5","./shared/clear/charts/4-59.webp":"6dca0db4c5","./shared/clear/charts/4-68B.webp":"8cc91d42dc","./shared/clear/charts/4F-1.webp":"3fc3ee7279","./shared/clear/charts/4F-2.webp":"74ee8f04e6","./shared/clear/charts/4F-3.webp":"7c483fcf31","./shared/clear/charts/4F-3A.webp":"eaa2d9b4b1","./shared/clear/charts/4F-4.webp":"ac3ed3a0ac","./shared/clear/charts/4F-5.webp":"6d7c24d322","./shared/clear/charts/4F-6.webp":"70cf543aea","./shared/clear/charts/4F-6A.webp":"6d31a41233","./shared/clear/charts/4F-7.webp":"01b35d2f6a","./shared/clear/charts/4F-8.webp":"8d6f567b03","./shared/clear/charts/4F-9.webp":"f99b8d92f1","./shared/clear/charts/4F-9A.webp":"7edf66f2ce","./shared/clear/charts/S90-4-93.webp":"0a5802c1e3","./shared/clear/charts/S90-4-95.webp":"9918ace947","./shared/clear/charts/S90-4-97.webp":"d13250fbd4","./shared/clear/charts/S90-4-99.webp":"ddc991098c","./shared/offshore/ew-data.js":"c073ea4bfd","./shared/offshore/edd-data.js":"bce9665f1c","./shared/offshore/ew-engine.js":"d1d31fa346","./shared/offshore/charts/S97-4-1.webp":"f0a11eee80","./shared/offshore/charts/S97-4-3.webp":"3d8f3a7af9","./shared/offshore/charts/S97-4-5.webp":"e46465cb9b","./shared/offshore/charts/S97-4-7.webp":"ad4120d99d","./shared/offshore/charts/S97-4-10.webp":"5f7f5ec68b","./shared/wra.js":"f683feb25d","./shared/wind/wind-data.js":"7ec70cbb42","./shared/wind/charts/4K-4.webp":"074b02c475","./shared/wind/charts/S97-4-13.webp":"65c29c6ce8","./shared/wind/charts/S97-1-2.webp":"f733b83aee","./shared/offshore/ofw-data.js":"376df3628f","./shared/offshore/ofd-data.js":"b230c27368","./shared/offshore/ofs-engine.js":"3f081613b6","./shared/offshore/ofs-view.js":"9a312567a1","./shared/offshore/charts/4-7.webp":"ba6576acdc","./shared/offshore/charts/4-8.webp":"17051a1724","./shared/offshore/charts/4-9.webp":"5c7d525308","./shared/offshore/charts/4-9C.webp":"9abb07bb44","./shared/offshore/charts/4E-7.webp":"3da80170ed","./shared/offshore/charts/4I-1.webp":"3b96f0ca34","./shared/offshore/charts/4-74.webp":"1b7065b366","./pouso-offshore/charts/4I-2.webp":"5de288717a","./pouso-offshore/charts/4I-4.webp":"f85b1ac58e","./pouso-offshore/charts/4I-6.webp":"5880067122","./pouso-offshore/charts/4I-8.webp":"36e4ae2e03","./pouso-offshore/charts/4-75.webp":"63c65543cc","./pouso-offshore/charts/4-77.webp":"5d2ec48263","./pouso-offshore/charts/4-79.webp":"514ed66713","./pouso-offshore/charts/4-100.webp":"c387276699","./decolagem-offshore/index.html":"a4b2f012a3","./decolagem-offshore/app.js":"27040ed425","./decolagem-offshore/styles.css":"106ae9e216","./rto/README.md":"3bebf9425d","./rto/app.js":"6409423fc0","./rto/assets/icon-180.png":"a08fe77aab","./rto/assets/icon-192.png":"7e0a669ec6","./rto/assets/icon-32.png":"7fecc67745","./rto/assets/icon-512.png":"b3b8909213","./rto/assets/icon-maskable-192.png":"c5974b3ba9","./rto/assets/icon-maskable-512.png":"eca61e4329","./rto/assets/icon-source.png":"b3b8909213","./rto/assets/icon.svg":"ceeaf9c37c","./rto/data/figure_4_54_engine_data.json":"add62c26d8","./rto/data/figure_4_54_vector_geometry.json":"58fceee453","./rto/data/figure_4_54_vector_linework.json":"7ae4a188e9","./rto/data/figure_4_56_engine_data.json":"eadc8c1e6d","./rto/data/figure_4_58_engine_data.json":"dc11f5e367","./rto/data/figure_4_68a_engine_data.json":"0a9d3ffcda","./rto/data/figure_4_92_engine_data.json":"808e8064cc","./rto/data/figure_4_94_engine_data.json":"51c587d2d4","./rto/data/figure_4_94_reference.json":"b8b0edc125","./rto/data/figure_4_96_engine_data.json":"cb88e07b3c","./rto/data/figure_4_96_reference.json":"2b3782ffa9","./rto/data/figure_4_98_engine_data.json":"08b53de4d6","./rto/data/figure_4_98_reference.json":"b40a85e800","./rto/docs/figure_4_58_center_right_corrected_reference_v17.png":"e3333beb9c","./rto/docs/figure_4_58_left_semantic_corrected_v15.png":"85aa2c303c","./rto/docs/figure_4_94_combined_fresh_v46.png":"8a06926007","./rto/docs/figure_4_94_semantic_fresh_v46.png":"c7f1981a48","./rto/docs/figure_4_94_vector_only_fresh_v46.png":"eca150637c","./rto/docs/figure_4_96_combined_fresh_v54.png":"9b8b8e0725","./rto/docs/figure_4_96_semantic_audit_sheet_v56.png":"8beb7972b9","./rto/docs/figure_4_96_semantic_fresh_v54.png":"df93a910fa","./rto/docs/figure_4_96_vector_precise_v55.png":"4b6fdd7e0c","./rto/docs/figure_4_98_center_semantic_audit_v62.png":"b4d06efa89","./rto/docs/figure_4_98_left_semantic_audit_v62.png":"b528131f9d","./rto/docs/figure_4_98_right_semantic_audit_v62.png":"be6294f676","./rto/docs/figure_4_98_semantic_audit_sheet_v62.png":"b7f6be6ee9","./rto/docs/figure_4_98_vector_exact_v62.png":"5a54209df2","./rto/docs/page_s50_108a_figure_4_68a.png":"eb6be6e6d2","./rto/docs/page_s50_85_figure_4_54.png":"74e04fe83d","./rto/docs/page_s50_89_figure_4_56.png":"659b6ce11f","./rto/docs/page_s50_93_figure_4_58.png":"ac27c6a796","./rto/docs/page_s90_123_figure_4_92.png":"605888a376","./rto/docs/page_s90_127_figure_4_94.png":"00fb96dbf2","./rto/docs/page_s90_131_figure_4_96.png":"01d0750ab4","./rto/docs/page_s90_135_figure_4_98.png":"bff0d026d7","./rto/index.html":"bb0a239415","./rto/manifest.webmanifest":"b7c9e25d7a","./rto/styles.css":"838139d262","./dropdown/graphData.js":"5ec80fc198","./shared/home.js":"3a221a12ca","./shared/module-bridge.js":"218cc0b67e","./shared/module-layout.css":"9bdd7bcfaf","./shared/omni-theme.css":"2f2f02b44f","./shared/embedded-app.js":"8dbbe242b5","./shared/embedded-app.css":"b7354115e5","./shared/embedded-skin.css":"109015fdc0","./shared/landing-oei.js":"2e86fe6cc6","./cat-a/":"3117a89858","./cat-a/index.html":"3117a89858","./backup/":"3166e8a040","./backup/index.html":"3166e8a040","./backup/bu-data.js":"97769ab131","./backup/bu-engine.js":"639f6cd6c7","./backup/bu-ui.js":"c3e96d34ff","./backup/charts/4C-3.webp":"a169d568b9","./backup/charts/4C-4.webp":"d5db3f4099","./backup/charts/4C-5.webp":"25b7ec50a9","./backup/charts/4C-5A.webp":"6e5a490945","./backup/charts/4C-6.webp":"c9c57c74af","./confined/":"159a48d48f","./confined/index.html":"159a48d48f","./confined/ca-data.js":"513c1577e6","./confined/ca-alt-data.js":"85b843ffb9","./confined/ca-after.js":"0c82897651","./confined/charts/4D-10.webp":"14259d24dc","./confined/charts/4D-11.webp":"1ce6c027c7","./confined/charts/4D-12.webp":"01c3476bfd","./confined/charts/4D-13.webp":"491d7cfb69","./confined/charts/4D-14.webp":"f3a0eb9068","./confined/charts/4D-15.webp":"1ca4996463","./confined/charts/4D-16.webp":"e10fbe1b95","./confined/charts/4D-17.webp":"14ad59078d","./confined/charts/4D-18.webp":"84eb91b10c","./confined/charts/4D-19.webp":"64e85e3e06","./confined/charts/4D-20.webp":"fc02cbe14d","./confined/charts/4D-21.webp":"a26eb85784","./confined/charts/4D-22.webp":"ceca16ccd7","./confined/charts/4D-23.webp":"302804e4a2","./confined/charts/4D-24.webp":"1f74fe877c","./confined/charts/4D-25.webp":"e8b8c02001","./confined/charts/4D-26.webp":"5c6b52939c","./confined/charts/4D-27.webp":"309da5b7f1","./confined/charts/4D-28.webp":"c20f7d1ebb","./confined/charts/4D-29.webp":"fdb5d9065f","./confined/charts/4D-30.webp":"6258a01407","./confined/charts/4D-31.webp":"9d4b65bf76","./confined/charts/4D-32.webp":"e1da117372","./confined/charts/4D-33.webp":"ce90a5e7eb","./confined/ca-engine.js":"5de4527045","./confined/charts/4D-4.webp":"c4c3228276","./confined/charts/4D-5.webp":"6c9e15fa66","./confined/charts/4D-6.webp":"7b8cdc6a6a","./confined/charts/4D-6A.webp":"88fe0088de","./confined/charts/4D-9.webp":"91aebd8472","./vertical/":"d471b6b641","./vertical/index.html":"d471b6b641","./vertical/vt-data.js":"9b24b69a9f","./vertical/vt-engine.js":"14a21a9ac1","./vertical/vt-ui.js":"996ac17e52","./vertical/charts/4A-3.webp":"65c41496fc","./vertical/charts/4A-4.webp":"6377cd735a","./vertical/charts/4A-5.webp":"06123f26bd","./vertical/charts/4A-5A.webp":"9ec5b1dfe6","./vertical/charts/4A-6.webp":"e3d9415027","./vertical/vt-p1.js":"1bb0b313c7","./vertical/vt-p2.js":"d0fcdb0430","./pouso-confined/":"1055da1e4a","./pouso-heliport/":"0e596d5f11","./pouso-heliport/index.html":"0e596d5f11","./pouso-heliport/hb-data.js":"6eaefee0bf","./pouso-heliport/hb-engine.js":"071ccaaa0f","./pouso-heliport/hb-ui.js":"f2dd8863c2","./pouso-heliport/charts/4G-2.webp":"5a8f1f9efc","./pouso-confined/index.html":"1055da1e4a","./pouso-confined/cl-data.js":"9d04f2fcbd","./pouso-confined/pc-engine.js":"0178a3d411","./pouso-confined/pc-ui.js":"384648b8ed","./pouso-confined/charts/4H-4.webp":"84e34deae7","./vertical/charts/4K-5.webp":"c800090af3","./vertical/charts/4K-6.webp":"feb0d2ce0b","./vertical/charts/4K-7.webp":"53925da32c","./vertical/charts/4K-8.webp":"6a61131144","./vertical/charts/4K-9.webp":"b8fd49aa9b","./vertical/charts/4K-10.webp":"336e6bc787","./vertical/charts/4K-11.webp":"395ba20c34","./vertical/charts/4K-12.webp":"685a96c2cc","./vertical/charts/4K-13.webp":"4cb337975d","./vertical/charts/4K-14.webp":"a2b0b9f59e","./vertical/charts/4K-15.webp":"f4e80838b8","./vertical/charts/4K-16.webp":"3db84164d9","./vertical/charts/4K-17.webp":"55811049fe","./vertical/charts/4K-18.webp":"29da24b680","./vertical/charts/4K-19.webp":"21c15545e9","./vertical/charts/4K-20.webp":"c9728e025f","./vertical/charts/4K-21.webp":"f1e3b6b182","./vertical/charts/4K-22.webp":"492a570bbc","./vertical/charts/4K-23.webp":"c0aeb6b3da","./vertical/charts/4K-24.webp":"b5ee3e1307","./vertical/charts/4K-25.webp":"4fcfff391f","./vertical/charts/4K-26.webp":"c980d2d2e4","./vertical/charts/4K-27.webp":"e70cb3ddfc","./vertical/charts/4K-28.webp":"65c5a4ecf1","./vertical/charts/4A-8.webp":"2c93987671","./vertical/charts/4A-9.webp":"d23e87bb2a","./vertical/charts/4A-10.webp":"5b434fa23a","./vertical/charts/4A-11.webp":"7cde6f2522","./vertical/charts/4A-12.webp":"4e40b0a191","./vertical/charts/4A-13.webp":"f3ce2fd712","./vertical/charts/4A-14.webp":"34148b0716","./vertical/charts/4A-15.webp":"62c26a199c","./vertical/charts/4A-16.webp":"bcba86b269","./vertical/charts/4A-17.webp":"90af0238f4","./vertical/charts/4A-18.webp":"2fcb766978","./vertical/charts/4A-19.webp":"d7ad0a50dd","./vertical/charts/4A-20.webp":"a1ed5ee2a6","./vertical/charts/4A-21.webp":"ff7b328ce1","./vertical/charts/4A-22.webp":"3aa31c76ec","./vertical/charts/4A-23.webp":"2a0efe59db","./vertical/charts/4A-24.webp":"cd74ae5cb2","./vertical/charts/4A-25.webp":"21feeb455a","./vertical/charts/4A-26.webp":"7cd3fc4185","./vertical/charts/4A-27.webp":"0c0360a128","./vertical/charts/4A-28.webp":"a8fe86e4d5","./vertical/charts/4A-29.webp":"8adae6c45b","./vertical/charts/4A-30.webp":"3c474ea9e7","./vertical/charts/4A-31.webp":"35a4f85ae8","./shortfield/":"5baa948d12","./shortfield/index.html":"5baa948d12","./shortfield/sf.css":"04459c691f","./shortfield/sf-data.js":"fb066962fa","./shortfield/sf-engine.js":"69eee41183","./shortfield/sf-ui.js":"099d398784","./shortfield/charts/4B-1.webp":"a532c92445","./shortfield/charts/4B-2.webp":"c567c6b8ea","./shortfield/charts/4B-3.webp":"d7107f03ea","./shortfield/charts/4B-3A.webp":"ae083fb31d","./shortfield/charts/4B-4.webp":"ddfe2ed6d3","./shortfield/charts/4B-5.webp":"4cb2abead9","./shortfield/charts/4B-6.webp":"682c84713b","./shortfield/charts/4B-6A.webp":"3d9411c514","./shortfield/charts/4B-7.webp":"800bc474ce","./shared/tiles.css":"8c4bd57a5e","./catb/":"88fd185536","./catb/index.html":"88fd185536","./catb/cb-data.js":"184818f7a2","./catb/cb-engine.js":"41a38659d6","./catb/cb-ui.js":"64e4ade123","./catb/charts/4-17.webp":"f0b623d4f1","./catb/charts/4-18.webp":"9e26786a3c","./catb/charts/4-35.webp":"e542d67870","./catb/charts/4-36.webp":"15fd59fcb4","./catb/charts/4-42.webp":"7e1a317645","./catb/charts/4-43.webp":"71d6d8fab5","./power-check/":"d7ccb4cba1","./power-check/index.html":"d7ccb4cba1","./power-check/app-data.js":"fcbd847f38","./power-check/pwc-data.js":"42cf0aa2de","./power-check/pwc-engine.js":"9e27e482ed","./power-check/charts/NONE.webp":"3231d6a406","./power-check/charts/EAPS.webp":"c7a081c8de","./power-check/charts/IBF.webp":"f48455ee53","./ndl/":"ef0ac8ba6c","./ndl/index.html":"ef0ac8ba6c","./ndl/app-data.js":"717d2dc5fd","./roc/":"df1347dbab","./roc/index.html":"df1347dbab","./roc/app-data.js":"9c9b431fca","./consumo/":"18e311c77c","./consumo/index.html":"18e311c77c","./consumo/app-data.js":"2d5ef998f6","./teto-pairado/":"d44c620d2b","./teto-pairado/index.html":"d44c620d2b","./teto-pairado/app-data.js":"caa6028e0b","./teto-pairado/hl-data.js":"a07a77d29f","./teto-pairado/hl-engine.js":"db9c774340","./teto-pairado/hl-ui.js":"70a7069cd5","./teto-pairado/charts/4-43.webp":"ea64bf3937","./teto-pairado/charts/S50-4-37.webp":"8504726fb9","./limitacoes/":"19e32631bf","./limitacoes/index.html":"19e32631bf","./limitacoes/app-data.js":"eee931d32f","./shared/offshore-calc.js":"d1f822971c","./shared/pwa.css":"0b2b41c17f","./shared/pwa.js":"18d5fe2a9a","./styles.css":"d6df5af781","./wat/README.md":"06da1901f0","./wat/app.js":"1405ffb022","./wat/assets/icon-180.png":"a08fe77aab","./wat/assets/icon-192.png":"7e0a669ec6","./wat/assets/icon-32.png":"7fecc67745","./wat/assets/icon-512.png":"b3b8909213","./wat/assets/icon-maskable-192.png":"c5974b3ba9","./wat/assets/icon-maskable-512.png":"eca61e4329","./wat/assets/icon-source.png":"b3b8909213","./wat/assets/icon.svg":"ceeaf9c37c","./wat/assets/offshore_standard_chart_clip.png":"78214165ed","./wat/data/chart-schema.json":"e84976cdb5","./wat/data/clear-eapsoff-exact.json":"4443b57283","./wat/data/clear-eapson-exact.json":"102cbc91be","./wat/data/clear-standard-exact.json":"8146090402","./wat/data/confined-eapsoff-6400-exact.json":"6ed2281668","./wat/data/confined-eapsoff-exact.json":"75a2719e94","./wat/data/confined-eapson-6400-exact.json":"3e4342c78f","./wat/data/confined-eapson-exact.json":"4ca834c44c","./wat/data/confined-ibf-6400-exact.json":"489ba48cfa","./wat/data/confined-standard-6400-exact.json":"5d0899d9a7","./wat/data/confined-standard-exact.json":"ad0c801588","./wat/data/eaps-off-exact.json":"e08569afca","./wat/data/ibf-cleararea-exact.json":"2b506321d5","./wat/data/ibf-confined-exact.json":"4fd78b4006","./wat/data/ibf-installed-exact.json":"d87f7ef440","./wat/data/sup90-clear-eapsoff-exact.json":"1ad9d32f9b","./wat/data/sup90-clear-eapson-exact.json":"b5732d4a66","./wat/data/sup90-clear-ibf-exact.json":"19eb4567b4","./wat/data/sup90-clear-standard-exact.json":"39d3f1b925","./wat/data/sup90-cleararea-stageA.json":"70d5f4e5bf","./wat/data/sup90-cleararea-stageB.json":"0af48578e9","./wat/docs/Confined 6400 charts.pdf":"64e0911dda","./wat/docs/WAC charts 6800.pdf":"863c46943c","./wat/docs/WAT enhanced.pdf":"3365c19d09","./wat/docs/page-01.png":"98dcb1e36e","./wat/docs/page-02.png":"cf2b60e02b","./wat/docs/page-03.png":"779a3cbb79","./wat/docs/page-04.png":"9c69ec6824","./wat/docs/page-05.png":"338269411c","./wat/docs/page-06.png":"b7c46ebafd","./wat/docs/page-07.png":"93b1aedb74","./wat/docs/page-08.png":"dc09690af9","./wat/docs/page-09.png":"2d444748a5","./wat/docs/page-10.png":"d0da82e194","./wat/docs/page-11.png":"b2bd181248","./wat/docs/page-12.png":"83bd327295","./wat/docs/page-13.png":"37c301bd9f","./wat/docs/page-14.png":"3910cc7596","./wat/docs/page-15.png":"e73c0f87a3","./wat/docs/page-16.png":"115f8033ee","./wat/docs/page-17.png":"f350827d1f","./wat/docs/page-18.png":"1980ca6cad","./wat/docs/page-19.png":"14677f00da","./wat/docs/page-20.png":"98fe336fb1","./wat/docs/page-21.png":"e8ad896654","./wat/docs/page-22.png":"77b108f6ee","./wat/docs/page-23.png":"96ee258424","./wat/docs/page-24.png":"a2e1afa641","./wat/docs/page-25.png":"8ca695e708","./wat/docs/page-26.png":"16291f06d5","./wat/docs/page-27.png":"f6ca30c83b","./wat/docs/page-28.png":"834d710b44","./wat/docs/page-29.png":"8441208079","./wat/docs/page-30.png":"329425d392","./wat/docs/page-31.png":"3fbdf34873","./wat/docs/page-32.png":"0da936d818","./wat/docs/page-33.png":"69e8f596d2","./wat/docs/wat7000.pdf":"7b4d5b7a7f","./wat/index.html":"f4e5ad2e9b","./wat/manifest.webmanifest":"a4ffcf1781","./wat/styles.css":"67172edf8b","./wat/test_overlay_case.png":"c9176ae09a"};
 
 // Arquivos sem os quais o app não abre: se um deles falhar, a instalação falha e a versão anterior continua.
 const CORE = /(\/|\.(html|js|css|json|svg|webmanifest))$/i;

diff --git a/shared/wra.js b/shared/wra.js
@@ -109,7 +109,7 @@
     if (r.speed > ch.vMax) return { ch, traces: [], dots: [], msg: 'Vento acima da escala da carta (60 kt).' };
     return Object.assign(polar(ch, r.speed), { msg: `proa ${fmt(r.head)} kt · través ${fmt(r.cross)} kt` });
   }
-  const capOf = (ch, extra) => ch ? `<b>Fig. ${ch.fig.replace(/^S97-/, '')}</b> ${ch.title} · ${ch.supl}, RFM ${ch.rfmPage} (pág. ${ch.page} do PDF)${extra ? ' · ' + extra : ''} · <b>aba WRA em conferência</b>` : '';
+  const capOf = (ch, extra) => ch ? `<b>Fig. ${ch.fig.replace(/^S97-/, '')}</b> ${ch.title} · ${ch.supl}, RFM ${ch.rfmPage} (pág. ${ch.page} do PDF)${extra ? ' · ' + extra : ''}` : '';
   const svgOf = v => v.traces.map(t => `<polyline class="trace" points="${t.map(p => p.map(n => n.toFixed(2)).join(',')).join(' ')}"/>`).join('') +
     v.dots.map(d => `<circle class="dot" cx="${d[0].toFixed(2)}" cy="${d[1].toFixed(2)}" r="2.2"/>`).join('');
 

diff --git a/cata/index.html b/cata/index.html
@@ -140,8 +140,6 @@
             </div>
           </div>
 
-          <p class="ldg-review" id="acReview" role="note">Em conferência: sem seleção de aeronave. A carta sai do peso digitado: acima de 6800 kg Supl. 90; até 6800 kg Supl. 50; abaixo de 6400 kg Supl. 12 (no W.A.T., quando o limite do Supl. 50 cai abaixo de 6400 kg).</p>
-
           <div class="action-row">
             <button id="runBtn" class="run-btn" type="button">Calcular Cat A</button>
             <button id="sharePdfBtn" class="ghost-btn secondary-action" type="button">Compartilhar PDF</button>
@@ -310,7 +308,7 @@
   <script src="cl-data.js" defer></script>
   <script src="cl-engine.js" defer></script>
   <script src="../shared/landing-oei.js" defer></script>
-  <script src="app.js?v=57"></script>
+  <script src="app.js?v=58"></script>
 <script src="../shared/pwa.js"></script>
 </body>
 </html>

diff --git a/cata/app.js b/cata/app.js
@@ -1588,7 +1588,6 @@ function getVisualizationMeta(mode) {
     { label: 'Fonte', value: `RFM AW139 Rev 30, ${r.supl}, pág. ${ch.rfmPage} (pág. ${ch.page} do PDF)` },
     { label: 'Leitura', value: mode === 'wra' ? (r.w ? `${WRA.describe(r.w)}` : r.msg) : !r.ok ? r.msg : mode === 'wat' ? `${r.kg} kg${r.note ? ' · ' + r.note : ''}` : `${Math.round(r.dist0)} m na carta${r.hw > 0 ? ` · vento ${r.hw.toFixed(0)} kt: ${r.perKt.toFixed(1)} m/kt = ${Math.round(r.corr)} m` : ''} · ${mode.toUpperCase()} ${Math.round(r.dist)} m${r.note ? ' · ' + r.note : ''}` },
   ] : [];
-  if (mode === 'wra') facts.push({ label: 'Status', value: 'Aba WRA em conferência' });
   return {
     legend: getLegendForMode(mode),
     facts
